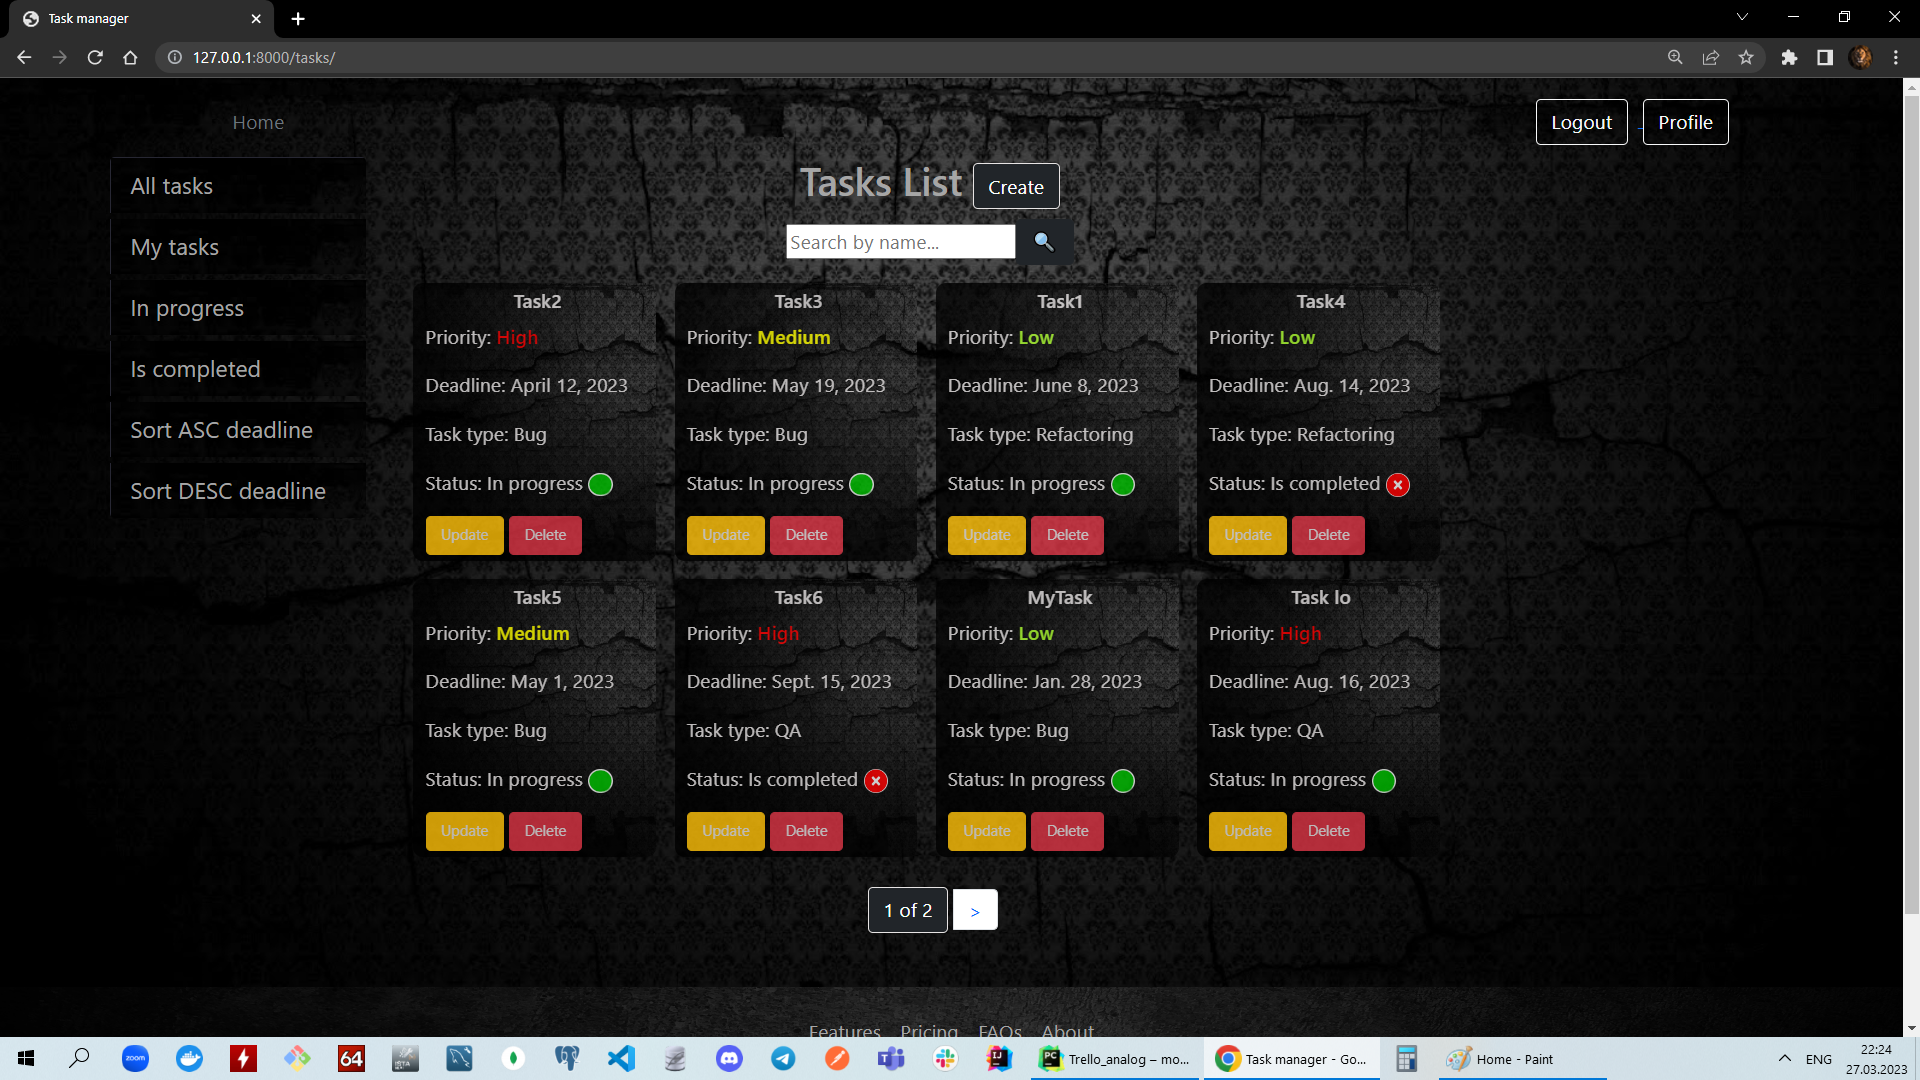
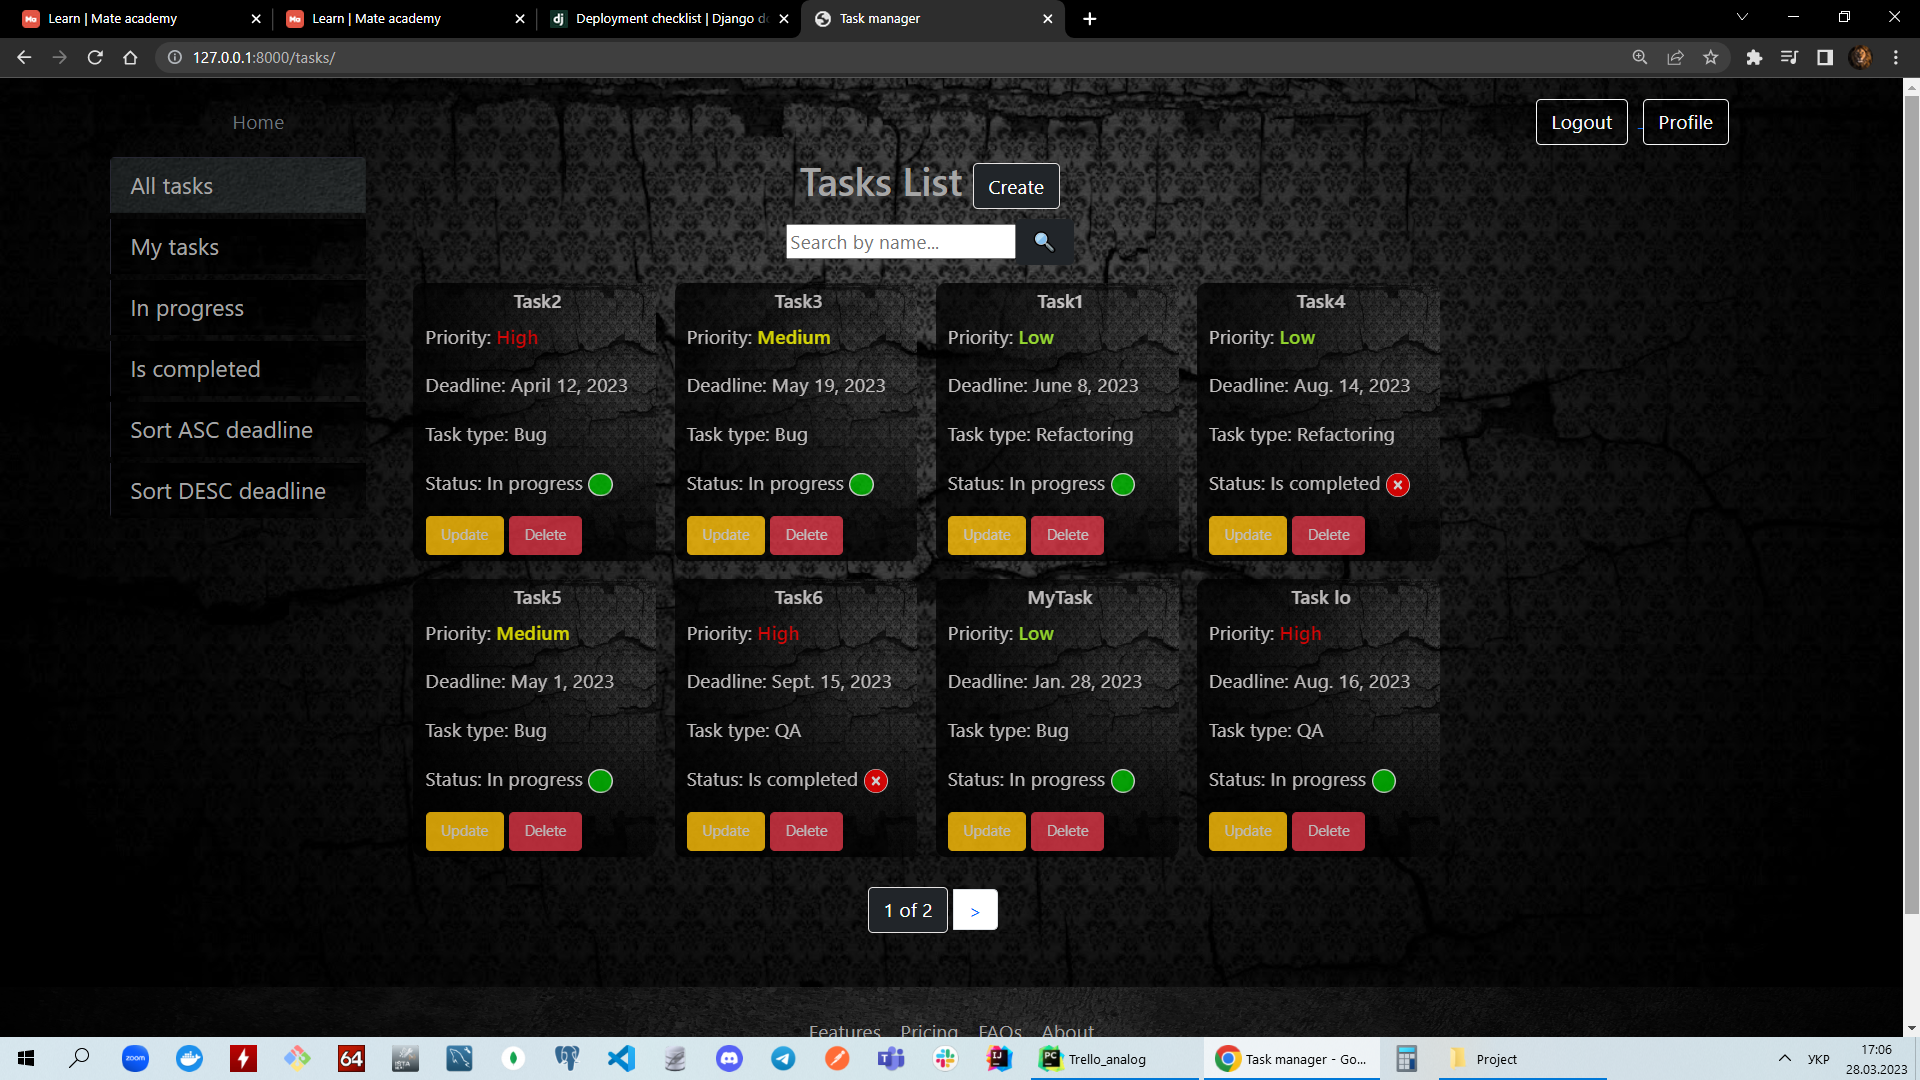
Fixed bug with function of remembering to press the side panel

diff --git a/templates/includes/sidebar.html b/templates/includes/sidebar.html
@@ -1,11 +1,17 @@
 <ul class="sidebar-nav list-group">
-  <li class="list-group-item {% if not request.GET %}list-group-item-selected{% endif %}"><a href="{% url "trello:tasks-list" %}">All tasks</a></li>
-  <li class="list-group-item {% if request.GET.my_tasks %}list-group-item-selected{% endif %}"><a href="{% url "trello:tasks-list" %}?my_tasks=True">My tasks</a></li>
-  <li class="list-group-item {% if request.GET.in_progress %}list-group-item-selected{% endif %}"><a href="{% url "trello:tasks-list" %}?in_progress=True">In progress</a></li>
-  <li class="list-group-item {% if request.GET.is_completed %}list-group-item-selected{% endif %}"><a href="{% url "trello:tasks-list" %}?is_completed=True">Is completed</a></li>
-  <li class="list-group-item {% if request.GET.sort_asc_deadline %}list-group-item-selected{% endif %}"><a href="{% url "trello:tasks-list" %}?sort_asc_deadline=True">Sort ASC deadline</a>
+  <li class="list-group-item {% if not request.GET and  request.path == "/tasks/" %}list-group-item-selected{% endif %}">
+    <a href="{% url "trello:tasks-list" %}">All tasks</a></li>
+  <li class="list-group-item {% if request.GET.my_tasks %}list-group-item-selected{% endif %}"><a
+      href="{% url "trello:tasks-list" %}?my_tasks=True">My tasks</a></li>
+  <li class="list-group-item {% if request.GET.in_progress %}list-group-item-selected{% endif %}"><a
+      href="{% url "trello:tasks-list" %}?in_progress=True">In progress</a></li>
+  <li class="list-group-item {% if request.GET.is_completed %}list-group-item-selected{% endif %}"><a
+      href="{% url "trello:tasks-list" %}?is_completed=True">Is completed</a></li>
+  <li class="list-group-item {% if request.GET.sort_asc_deadline %}list-group-item-selected{% endif %}"><a
+      href="{% url "trello:tasks-list" %}?sort_asc_deadline=True">Sort ASC deadline</a>
   </li>
-   <li class="list-group-item {% if request.GET.sort_desc_deadline %}list-group-item-selected{% endif %}"><a href="{% url "trello:tasks-list" %}?sort_desc_deadline=True">Sort DESC deadline</a>
+  <li class="list-group-item {% if request.GET.sort_desc_deadline %}list-group-item-selected{% endif %}"><a
+      href="{% url "trello:tasks-list" %}?sort_desc_deadline=True">Sort DESC deadline</a>
   </li>
 
 </ul>
